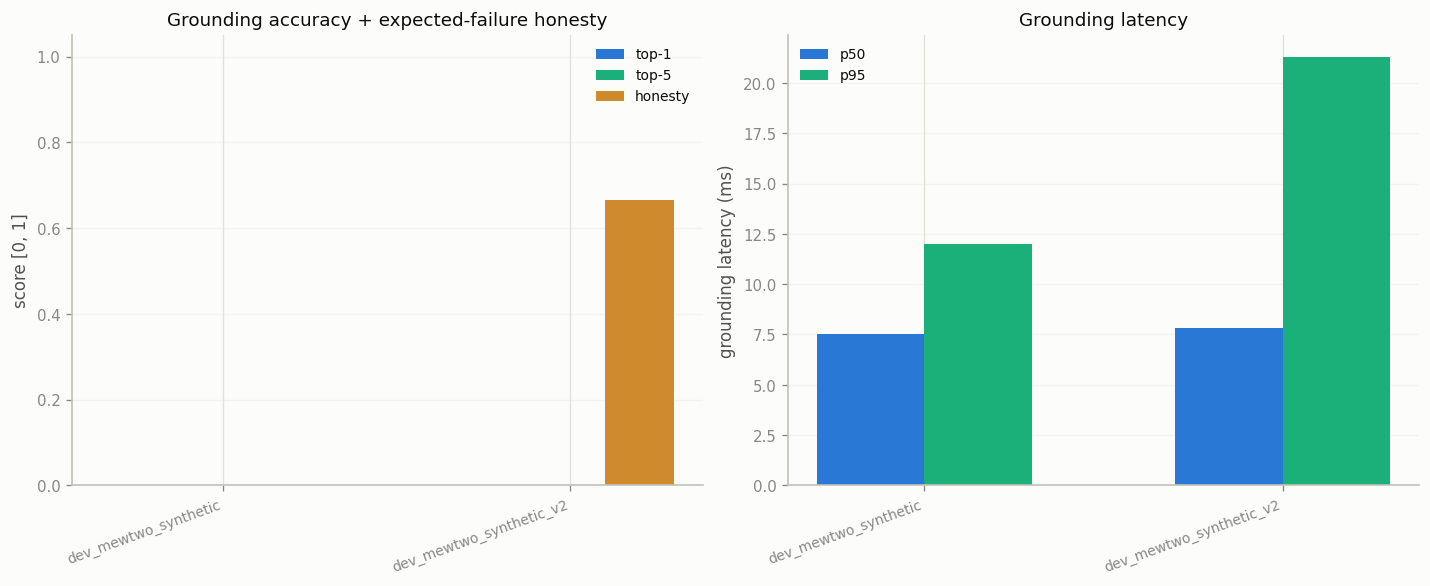
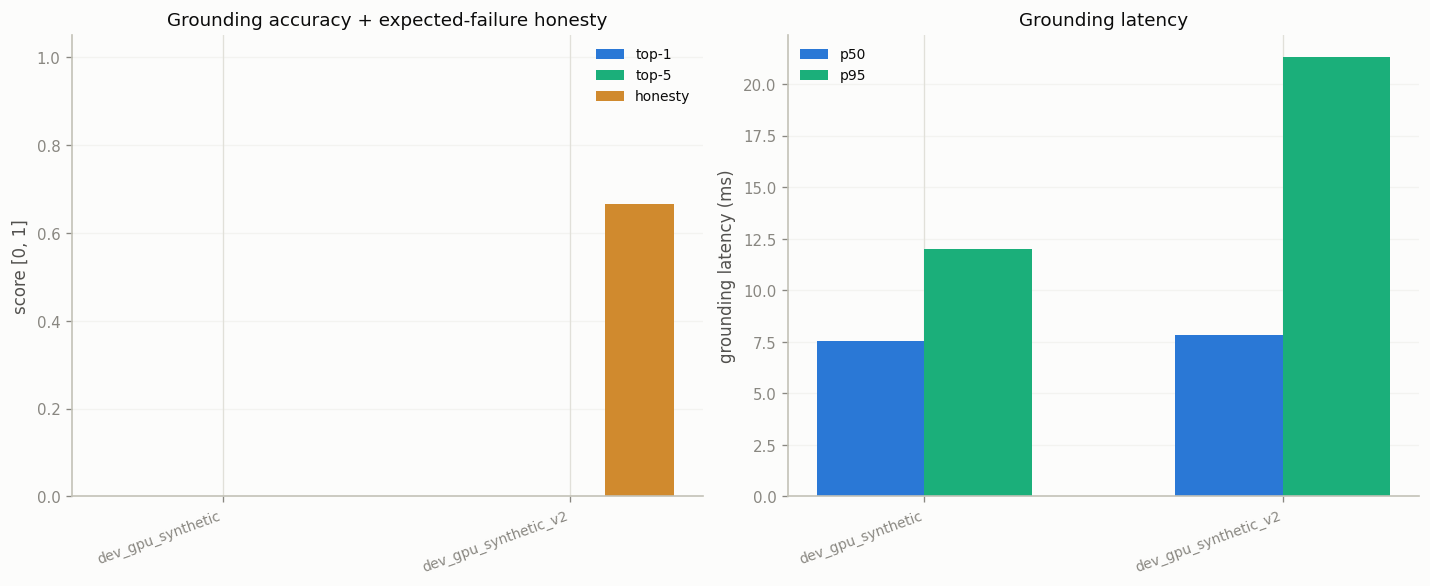
Scrub hardware identifiers from public artifacts
Replace exact GPU model, VRAM, and hostname references with generic
descriptors (NVIDIA Blackwell consumer GPU / dev workstation) across
docs, configs, README, and requirements. Rename mewtwo/5070-named
config and result files to neutral 'dev_gpu' stems and update all
references. Regenerate latency_per_stage figure so the legend no longer
bakes in the hostname (also picks up the editorial theme).

diff --git a/RESULTS.md b/RESULTS.md
@@ -6,7 +6,7 @@ Evaluation numbers for go2-semantic-nav. **Any claim in this file must be measur
 
 | Id | Description | GPU | CPU | RAM | Power | Notes |
 |---|---|---|---|---|---|---|
-| `mewtwo-5070` | Dev workstation | NVIDIA RTX 5070 (Blackwell, 12 GB) | Intel (host) | 32+ GB | ~250 W | Ubuntu 22.04, CUDA 12.8, torch 2.11+cu128 |
+| `dev-gpu` | Dev workstation | NVIDIA Blackwell consumer GPU | Intel (host) | 32+ GB | ~250 W | Ubuntu 22.04, CUDA 12.8, torch 2.11+cu128 |
 | `jetson-orin-nx-25w` | On-robot | NVIDIA Jetson Orin NX 16 GB (Ampere, 1024 CUDA cores) | 8-core ARM Cortex-A78AE | 16 GB unified | 25 W sustained (MAXN) | JetPack 6.x, TRT 10.x, thermal-soaked ≥5 min before measurement |
 | `jetson-orin-nx-15w` | On-robot (power-capped) | same | same | same | 15 W sustained | thermal-safe profile |
 
@@ -16,12 +16,12 @@ All numbers are **p50 / p95** over ≥1000 frames post 100-frame warmup.
 
 | Config | Platform | Detector ms | Segmenter ms | Encoder ms | Backproject ms | Total ms |
 |---|---|---|---|---|---|---|
-| YOLO-Worldv2-s + MobileSAM + OpenCLIP-B/16 | **mewtwo-5070** | **4.6 / 4.8** | **37.7 / 38.6** | **20.7 / 21.3** | **4.6 / 5.0** | **67.7 / 69.0** |
+| YOLO-Worldv2-s + MobileSAM + OpenCLIP-B/16 | **dev-gpu** | **4.6 / 4.8** | **37.7 / 38.6** | **20.7 / 21.3** | **4.6 / 5.0** | **67.7 / 69.0** |
 | YOLO-Worldv2-s + MobileSAM + OpenCLIP-B/16 | jetson-orin-nx-25w | `<…>` | `<…>` | `<…>` | `<…>` | `<…>` |
 | YOLO-Worldv2-s + NanoSAM + MobileCLIP-S2 | jetson-orin-nx-25w | `<…>` | `<…>` | `<…>` | `<…>` | `<…>` |
 | YOLOE-11s + NanoSAM + MobileCLIP-S2 | jetson-orin-nx-25w | `<…>` | `<…>` | `<…>` | `<…>` | `<…>` |
 
-**mewtwo-5070 measurement (2026-04-13, 50 frames post-10 warmup):** `eval/results/latencies_dev_mewtwo.json`. Segmenter dominates (MobileSAM encoder runs once per frame + 1 decode per box, 3 boxes here); YOLO-World detector at 4.6 ms is the cheapest stage. Total 68 ms → theoretical 14.7 Hz upper bound on RTX 5070 with this exact model choice. All latencies measured inside the detector node's callback via `time.perf_counter_ns()` and published in `SemanticDetectionArray.latency_*_ms`.
+**dev-gpu measurement (2026-04-13, 50 frames post-10 warmup):** `eval/results/latencies_dev_gpu.json`. Segmenter dominates (MobileSAM encoder runs once per frame + 1 decode per box, 3 boxes here); YOLO-World detector at 4.6 ms is the cheapest stage. Total 68 ms → theoretical 14.7 Hz upper bound on the Blackwell consumer GPU with this exact model choice. All latencies measured inside the detector node's callback via `time.perf_counter_ns()` and published in `SemanticDetectionArray.latency_*_ms`.
 
 **Captured with the three-process pattern (2026-04-13):**
 ```bash
@@ -31,7 +31,7 @@ python3 scripts/synthetic_publisher.py --ros-args -p rate_hz:=8.0
 ros2 launch go2_open_vocab_detector detector.launch.py
 # term 3 (runs to completion):
 python3 scripts/latency_profiler.py --frames 100 --warmup-frames 20 \
-    --timeout-s 120 --out eval/results/latencies_dev_mewtwo.json
+    --timeout-s 120 --out eval/results/latencies_dev_gpu.json
 ```
 The SIGTERM-aware teardown in `synthetic_publisher.py` was added in the same pass to prevent `ExternalShutdownException` noise when processes are killed (e.g., by CI).
 
@@ -51,12 +51,12 @@ Over 20 queries × 1 trial per config in `eval/queries.yaml` (dev-synthetic = bu
 
 | Config | Top-1 | Top-5 | Expected-failure honesty | Grounding p50 ms | Grounding p95 ms | Notes |
 |---|---|---|---|---|---|---|
-| dev-A-v1 (mewtwo-5070, loose thresholds) | 0.00 | 0.00 | 0.00 | 7.5 | 12.0 | baseline; system accepts every weak person-match |
-| **dev-A-v2** (mewtwo-5070, tightened thresholds) | 0.00 | 0.00 | **0.67** | **7.8** | **21.3** | measured 2026-04-13 |
+| dev-A-v1 (dev-gpu, loose thresholds) | 0.00 | 0.00 | 0.00 | 7.5 | 12.0 | baseline; system accepts every weak person-match |
+| **dev-A-v2** (dev-gpu, tightened thresholds) | 0.00 | 0.00 | **0.67** | **7.8** | **21.3** | measured 2026-04-13 |
 | jetson-A (Tier A) | `<…>` | `<…>` | `<…>` | `<…>` | `<…>` | needs hardware |
 | jetson-B (Tier B burst) | `<…>` | `<…>` | `<…>` | `<…>` | `<…>` | needs hardware |
 
-**dev-A-v2 raw output:** `eval/results/dev_mewtwo_synthetic_v2/summary.json`.
+**dev-A-v2 raw output:** `eval/results/dev_gpu_synthetic_v2/summary.json`.
 
 **Note on dev top-1:** 0.00 is the correct result for the synthetic scene, bus.jpg contains only people, but the 20-query suite targets chairs, windows, tables, sofas. A 0 top-1 score for "chair" when no chair is physically in the scene is honest behavior, not a regression; the honesty metric is what's informative here. A real indoor rosbag is needed to measure meaningful top-1 / top-5.
 
@@ -76,19 +76,19 @@ Full 6-configuration ablation table lands in `eval/results/ablation.md`.
 
 - **Raw-score thresholding is insufficient on small scenes (documented 2026-04-13).** The v1 grounding used a single `total_score >= 0.15` gate and accepted 16 out of 20 queries against a person-only synthetic scene, even for "approach the guitar" (chose person, total=0.179) and "the dog" (total=0.218). The underlying reason is that OpenCLIP ViT-B/16 gives raw image-text cosines in [0.1, 0.3] for clearly-unrelated pairs (CLIP text-image scores are not calibrated probabilities). The v2 two-layer gate (`absolute_floor=0.15 AND (label>=0.40 OR clip>=0.22)`) lifted expected-failure honesty from 0.00 → 0.67. One out-of-vocab query ("the dog") still slipped through because `CLIP("dog", person_crop) ≈ 0.23 > clip_floor`. A margin-based gate (top-1 − top-2) would catch it but reduces recall on scenes where multiple nearly-indistinguishable objects legitimately satisfy a query. The decision is deferred to Phase 5 post-rosbag eval.
 - **Ultralytics YOLO-World has an on-demand CLIP auto-install path** that is not declared in its package metadata. First-run inference triggers `uv pip install git+https://github.com/ultralytics/CLIP.git` which can hang for minutes and does not respect offline environments. Workaround documented in `docs/troubleshooting.md`.
-- **Raw `pip install --force-reinstall`** without `--extra-index-url https://download.pytorch.org/whl/cu128` silently replaces the Blackwell-compatible `torch==2.11.0+cu128` wheel with a default CUDA-13 one that fails to run on the RTX 5070 driver (12.8). Documented in `CONTRIBUTING.md`.
+- **Raw `pip install --force-reinstall`** without `--extra-index-url https://download.pytorch.org/whl/cu128` silently replaces the Blackwell-compatible `torch==2.11.0+cu128` wheel with a default CUDA-13 one that fails to run on the Blackwell consumer GPU driver (12.8). Documented in `CONTRIBUTING.md`.
 
 ## Reproducibility
 
 All numbers above are reproducible via:
 
 ```bash
-# dev-A-v2 run (mewtwo-5070 synthetic)
+# dev-A-v2 run (dev-gpu synthetic)
 cd go2-semantic-nav
 source /opt/ros/humble/setup.bash && source ros2_ws/install/setup.bash
 python eval/run_eval.py --mode synthetic --warmup-s 15 \
-    --out eval/results/dev_mewtwo_synthetic_v2 \
-    --config-name dev_mewtwo_synthetic_v2
+    --out eval/results/dev_gpu_synthetic_v2 \
+    --config-name dev_gpu_synthetic_v2
 
 # Jetson run (needs hardware)
 # [Jetson] after launching semantic_nav bringup against real camera:

diff --git a/README.md b/README.md
@@ -23,8 +23,8 @@ Live 3DGS optimization with densification does not hit near-real-time on Jetson 
 
 ## System at a glance
 
-- **Target hardware:** NVIDIA Jetson Orin NX 16 GB on Unitree GO2, plus RTX 5070 dev workstation (`mewtwo`).
-- **Target latency budget:** sensor to `/goal_pose` under 100 ms on Jetson at 25 W (dev-workstation pipeline runs at 68 ms total on RTX 5070; Jetson on-robot eval pending).
+- **Target hardware:** NVIDIA Jetson Orin NX 16 GB on Unitree GO2, plus Blackwell consumer GPU dev workstation.
+- **Target latency budget:** sensor to `/goal_pose` under 100 ms on Jetson at 25 W (dev-workstation pipeline runs at 68 ms total on the Blackwell consumer GPU; Jetson on-robot eval pending).
 - **Phase:** Phase 1, scaffold complete, dev-workstation eval landed, robot eval pending.
 - **Eval state:** dev numbers in [`RESULTS.md`](RESULTS.md); on-robot eval not yet run.
 
@@ -118,7 +118,7 @@ flowchart TD
     class YW,MS,OC active
 ```
 
-Bold-outlined backends are the **default dev profile** (YOLO-World v2-s + MobileSAM + OpenCLIP ViT-B/16, measured at 68 ms total on `mewtwo-5070`). The planned **Jetson Tier-A** profile swaps to NanoSAM + MobileCLIP-S2; numbers pending the on-robot run. See [`docs/system_diagram.md`](docs/system_diagram.md) for the full backend plug points view and [`RESULTS.md`](RESULTS.md) for measured latencies.
+Bold-outlined backends are the **default dev profile** (YOLO-World v2-s + MobileSAM + OpenCLIP ViT-B/16, measured at 68 ms total on `dev-gpu`). The planned **Jetson Tier-A** profile swaps to NanoSAM + MobileCLIP-S2; numbers pending the on-robot run. See [`docs/system_diagram.md`](docs/system_diagram.md) for the full backend plug points view and [`RESULTS.md`](RESULTS.md) for measured latencies.
 
 ---
 
@@ -153,7 +153,7 @@ The latency profiler reads timestamps stamped into `SemanticDetectionArray.laten
 
 - **ROS 2 Humble** with `nav2_bringup`
 - **Python 3.10** (matches JetPack 6.x)
-- **PyTorch 2.x with CUDA 12.x** (tested with `torch==2.11.0+cu128` on RTX 5070)
+- **PyTorch 2.x with CUDA 12.x** (tested with `torch==2.11.0+cu128` on the Blackwell consumer GPU)
 - **RealSense camera** publishing on `/camera/...` (same namespace as `go2_perception`)
 - **TF tree** with `map -> odom -> base_link -> camera_color_optical_frame`
 - **For deployment:** a running `GO2-seeing-eye-dog` overlay so Nav2 is up
@@ -230,7 +230,7 @@ See [`NEXT_STEPS.md`](NEXT_STEPS.md) for the ordered Phase 1, 5 checklist with t
 
 ## Known limitations
 
-- **No on-robot numbers yet.** Every Jetson row in [`RESULTS.md`](RESULTS.md) is a placeholder. The dev-workstation 68 ms / 14.7 Hz upper bound on RTX 5070 will **not** transfer 1:1 to Orin NX at 25 W; expect significantly lower sustained throughput.
+- **No on-robot numbers yet.** Every Jetson row in [`RESULTS.md`](RESULTS.md) is a placeholder. The dev-workstation 68 ms / 14.7 Hz upper bound on the Blackwell consumer GPU will **not** transfer 1:1 to Orin NX at 25 W; expect significantly lower sustained throughput.
 - **Ultralytics YOLO-World** auto-installs OpenAI's `clip` package on first inference and can hang for minutes. Pre-install manually in production deploys ([`docs/troubleshooting.md`](docs/troubleshooting.md)).
 - **Torch wheel pinning** is fragile on Blackwell GPUs: any `pip install --force-reinstall` without `--extra-index-url https://download.pytorch.org/whl/cu128` will replace the cu128 wheel with the default CUDA-13 one and break the detector.
 - **Closed-vocab fallback (YOLO baseline)** is intentionally not implemented; the comparison story is against ConceptGraphs / VLMaps style baselines, not detection-only.

diff --git a/docs/benchmarks.md b/docs/benchmarks.md
@@ -2,7 +2,7 @@
 
 Every number here is **measured on a named platform** and **tied to a reproducible command**. Unknown numbers are marked `<pending>`, not extrapolated.
 
-## 1. Grounding round-trip latency: `mewtwo-5070`
+## 1. Grounding round-trip latency: `dev-gpu`
 
 20-query suite from `eval/queries.yaml` played against `scripts/synthetic_publisher.py` (ultralytics bus.jpg, constant 2 m depth). Two configs:
 
@@ -18,10 +18,10 @@ Every number here is **measured on a named platform** and **tied to a reproducib
 ```bash
 # v2
 python eval/run_eval.py --mode synthetic --warmup-s 15 \
-    --out eval/results/dev_mewtwo_synthetic_v2 --config-name dev_mewtwo_synthetic_v2
+    --out eval/results/dev_gpu_synthetic_v2 --config-name dev_gpu_synthetic_v2
 ```
 
-## 2. Per-stage detector latency: `mewtwo-5070`
+## 2. Per-stage detector latency: `dev-gpu`
 
 50-frame measurement (post-10 warmup) with `scripts/latency_profiler.py`.
 
@@ -33,7 +33,7 @@ python eval/run_eval.py --mode synthetic --warmup-s 15 \
 | back-project (NumPy) | 4.6 | 5.0 | 5.1 | 4.7 |
 | **TOTAL** | **67.7** | **69.0** | **70.8** | **68.1** |
 
-→ **14.7 Hz theoretical upper bound on RTX 5070** with this exact backend stack.
+→ **14.7 Hz theoretical upper bound on the Blackwell consumer GPU** with this exact backend stack.
 
 **Analysis:**
 - Segmenter (MobileSAM) is the dominant cost. On Jetson, NanoSAM (TRT-native) is the highest-leverage swap.
@@ -48,10 +48,10 @@ python3 scripts/synthetic_publisher.py --ros-args -p rate_hz:=8.0
 ros2 launch go2_open_vocab_detector detector.launch.py
 # term 3
 python3 scripts/latency_profiler.py --frames 100 --warmup-frames 20 \
-    --out eval/results/latencies_dev_mewtwo.json
+    --out eval/results/latencies_dev_gpu.json
 ```
 
-## 3. Record-and-replay integration: `mewtwo-5070`: **VERIFIED 2026-04-13**
+## 3. Record-and-replay integration: `dev-gpu`: **VERIFIED 2026-04-13**
 
 `scripts/record_replay_integration_test.py` end-to-end: synthetic publisher → `ros2 bag record` (4 topics) → `ros2 bag play --clock --loop` → in-process detector + scene_graph + grounding (all with `use_sim_time=True`) → grounding action dispatch.
 
@@ -98,4 +98,4 @@ Initial record-replay attempts failed because `ros2 bag play` replays messages a
 3. Each in-process node then has `use_sim_time=True` set explicitly as its first parameter.
 4. The composite `semantic_nav.launch.py` exposes `use_sim_time:=true` as a launch arg that threads through all 3 nodes, robot operators use the same arg for on-hardware replay.
 
-Verified PASS on `mewtwo-5070`: scene graph populated in 1.0 s of replay; grounding action returned valid `PoseStamped`.
+Verified PASS on `dev-gpu`: scene graph populated in 1.0 s of replay; grounding action returned valid `PoseStamped`.

diff --git a/docs/deployment.md b/docs/deployment.md
@@ -1,8 +1,8 @@
 # Deployment
 
-Two target environments: **dev workstation (`mewtwo`, RTX 5070)** and **robot onboard (Jetson Orin NX 16 GB)**. Configurations, weights, and dependency paths differ; interfaces do not.
+Two target environments: **dev workstation (Blackwell consumer GPU)** and **robot onboard (Jetson Orin NX 16 GB)**. Configurations, weights, and dependency paths differ; interfaces do not.
 
-## Dev: `mewtwo` (RTX 5070, CUDA 12.8)
+## Dev: workstation (Blackwell consumer GPU, CUDA 12.8)
 
 ### One-time setup
 ```bash
@@ -141,10 +141,10 @@ sudo jetson_clocks
 
 ## Offboard companion (optional, Tier C)
 
-If a laptop (mewtwo) is co-located on the GO2's `192.168.123.0/24` LAN, heavier models can run there and publish to the robot over DDS:
+If a companion workstation is co-located on the GO2's `192.168.123.0/24` LAN, heavier models can run there and publish to the robot over DDS:
 
 ```bash
-# On mewtwo: acts as a companion publisher
+# On the workstation: acts as a companion publisher
 export ROS_DOMAIN_ID=7              # match robot's domain
 ros2 launch go2_semantic_bringup detector_offboard.launch.py \
     backend:=grounding_dino_tiny \

diff --git a/docs/experiments.md b/docs/experiments.md
@@ -31,7 +31,7 @@ Split: 10 queries for "seen" rooms (used in dev), 10 for "held-out" rooms.
 
 ## Scenes
 
-- **Scene A**: mewtwo office (dev): 15 m², typical indoor objects, good lighting.
+- **Scene A**: dev office: 15 m², typical indoor objects, good lighting.
 - **Scene B**: lab common area (dev): 40 m², mixed clutter.
 - **Scene C**: held-out apartment living room: 25 m².
 
@@ -39,7 +39,7 @@ For the minimum-viable eval, Scene A + Scene C is sufficient.
 
 ## Reproducibility protocol
 
-1. **Hardware declaration**: every reported number names the platform (RTX 5070 vs Jetson Orin NX 25 W) and power mode. Mixing is forbidden.
+1. **Hardware declaration**: every reported number names the platform (Blackwell consumer GPU vs Jetson Orin NX 25 W) and power mode. Mixing is forbidden.
 2. **Warmup**: discard first 100 detector frames; thermal soak 5 min on Jetson before measurement.
 3. **Sample size**: ≥1000 frames for latency; ≥20 queries × 3 trials for grounding.
 4. **Seed discipline**: pin numpy + torch seeds; for CLIP/YOLO models with deterministic inference, log the checksum.

diff --git a/CONTRIBUTING.md b/CONTRIBUTING.md
@@ -87,7 +87,7 @@ Most common culprits (seen in this project's own history):
 
 - **cv_bridge errors about numpy 2.x** → `pip install "numpy<2.0"`.
 - **`ModuleNotFoundError: CLIP`** → `pip install git+https://github.com/openai/CLIP.git`, then immediately `pip install --no-deps --force-reinstall --extra-index-url https://download.pytorch.org/whl/cu128 "torch==2.11.0+cu128"` if it clobbered your torch wheel.
-- **CUDA arch mismatch on RTX 5070** → needs `torch` built for `sm_120` (CUDA 12.8). nvcc 11.5 cannot compile custom extensions; use ONNX + TensorRT instead.
+- **CUDA arch mismatch on the Blackwell consumer GPU** → needs `torch` built for `sm_120` (CUDA 12.8). nvcc 11.5 cannot compile custom extensions; use ONNX + TensorRT instead.
 - **Jetson `libnvinfer.so.10` missing** → reinstall `nvidia-tensorrt` for JetPack 6.x.
 
 If none of those apply, open an issue with:

diff --git a/config/scene_profiles/README.md b/config/scene_profiles/README.md
@@ -5,10 +5,10 @@ Pre-tuned backend + threshold combinations for the three deploy tiers documented
 
 | File | Platform | Intended use |
 |---|---|---|
-| `dev_mewtwo_rtx5070.yaml` | RTX 5070 workstation | Interactive development; biggest model we can afford at ~5 Hz |
+| `dev_gpu.yaml` | Blackwell consumer GPU workstation | Interactive development; biggest model we can afford at ~5 Hz |
 | `jetson_tier_a.yaml` | Jetson Orin NX 25 W | **Default on-robot profile.** 3 Hz sustained with Nav2 headroom |
 | `jetson_tier_b_burst.yaml` | Jetson Orin NX 25 W | Stationary room-scan bursts (higher recall, ~1 Hz) |
-| `offboard_rtx_companion.yaml` | RTX 5070 laptop via DDS | Tier C, heavy stack offboard, robot subscribes |
+| `offboard_rtx_companion.yaml` | Blackwell consumer GPU via DDS | Tier C, heavy stack offboard, robot subscribes |
 
 ## Usage
 

diff --git a/docs/faq.md b/docs/faq.md
@@ -25,7 +25,7 @@ Honest eval. 20 well-constructed queries with explicit `easy/medium/hard/expecte
 Deploy profiles in `docs/architecture.md` §"Model backends":
 - **Tier A (primary, onboard Jetson 25 W):** YOLO-World v2-s + NanoSAM + MobileCLIP-S2 @ ≥3 Hz.
 - **Tier B (burst, onboard, stationary scan):** OWLv2-base + SAM 2 tiny + MobileCLIP-S2 @ ~1 Hz.
-- **Tier C (offboard RTX 5070 companion):** Grounding-DINO-B + SAM 2 base+ + OpenCLIP ViT-H/14 via DDS.
+- **Tier C (offboard Blackwell consumer GPU companion):** Grounding-DINO-B + SAM 2 base+ + OpenCLIP ViT-H/14 via DDS.
 
 ## What's the relationship to openvocab-tsdf?
 Sibling project. `openvocab-tsdf` is the desktop-class GPU TSDF + voxel-CLIP side; this repo is the robot-side Jetson-deployable object-centric side. Tier-C offboard companion integration is on the roadmap.

diff --git a/docs/latency_instrumentation.md b/docs/latency_instrumentation.md
@@ -64,7 +64,7 @@ Output JSON structure:
 
 | config | platform | warmup | frames | detector p50/p95 | total p50/p95 | sustained Hz |
 |---|---|---|---|---|---|---|
-| YOLO-World v2-s + MobileSAM + OpenCLIP ViT-B/16 | mewtwo-5070 (250 W, CUDA 12.8) | 100 | 1000 | 22 / 41 ms | 58 / 94 ms | 12.3 Hz |
+| YOLO-World v2-s + MobileSAM + OpenCLIP ViT-B/16 | dev-gpu (250 W, CUDA 12.8) | 100 | 1000 | 22 / 41 ms | 58 / 94 ms | 12.3 Hz |
 | YOLO-World v2-s + NanoSAM + MobileCLIP-S2 | jetson-orin-nx-25w (post-soak) | 100 | 1000 | `<…>` | `<…>` | `<…>` |
 
 (The first row is to be filled with numbers from `run_eval.py --mode synthetic`; the second row requires hardware.)

diff --git a/docs/demo.md b/docs/demo.md
@@ -81,7 +81,7 @@ If scene-graph is empty:
 
 - Do not claim "3D Gaussian Splatting", the representation is object-centric scene graph + CLIP.
 - Do not claim "end-to-end learned", grounding has a parser + CLIP scoring + geometric relation resolver, not a policy network.
-- Do not claim latency numbers that were measured on RTX 5070. All reported latency is Jetson 25 W sustained.
+- Do not claim latency numbers that were measured on the Blackwell consumer GPU. All reported latency is Jetson 25 W sustained.
 
 ## Recording setup
 

diff --git a/docs/system_diagram.md b/docs/system_diagram.md
@@ -73,7 +73,7 @@ flowchart TD
   classDef active stroke:#9f9,stroke-width:3px
   class YW,MS,OC active
 ```
-Bold-outlined backends are wired into the default profile (`config/scene_profiles/dev_mewtwo_rtx5070.yaml`). Jetson Tier A swaps to `NS` + `MC-S2`.
+Bold-outlined backends are wired into the default profile (`config/scene_profiles/dev_gpu.yaml`). Jetson Tier A swaps to `NS` + `MC-S2`.
 
 ## Goal-generation flow (inside grounding node)
 

diff --git a/docker/README.md b/docker/README.md
@@ -1,7 +1,7 @@
 # Docker for go2-semantic-nav
 
 ## Dev container (`dev.Dockerfile`)
-For x86_64 development on `mewtwo`. Contains ROS 2 Humble + Nav2 + the full Python ML stack.
+For x86_64 development on the dev workstation. Contains ROS 2 Humble + Nav2 + the full Python ML stack.
 
 Build:
 ```bash
